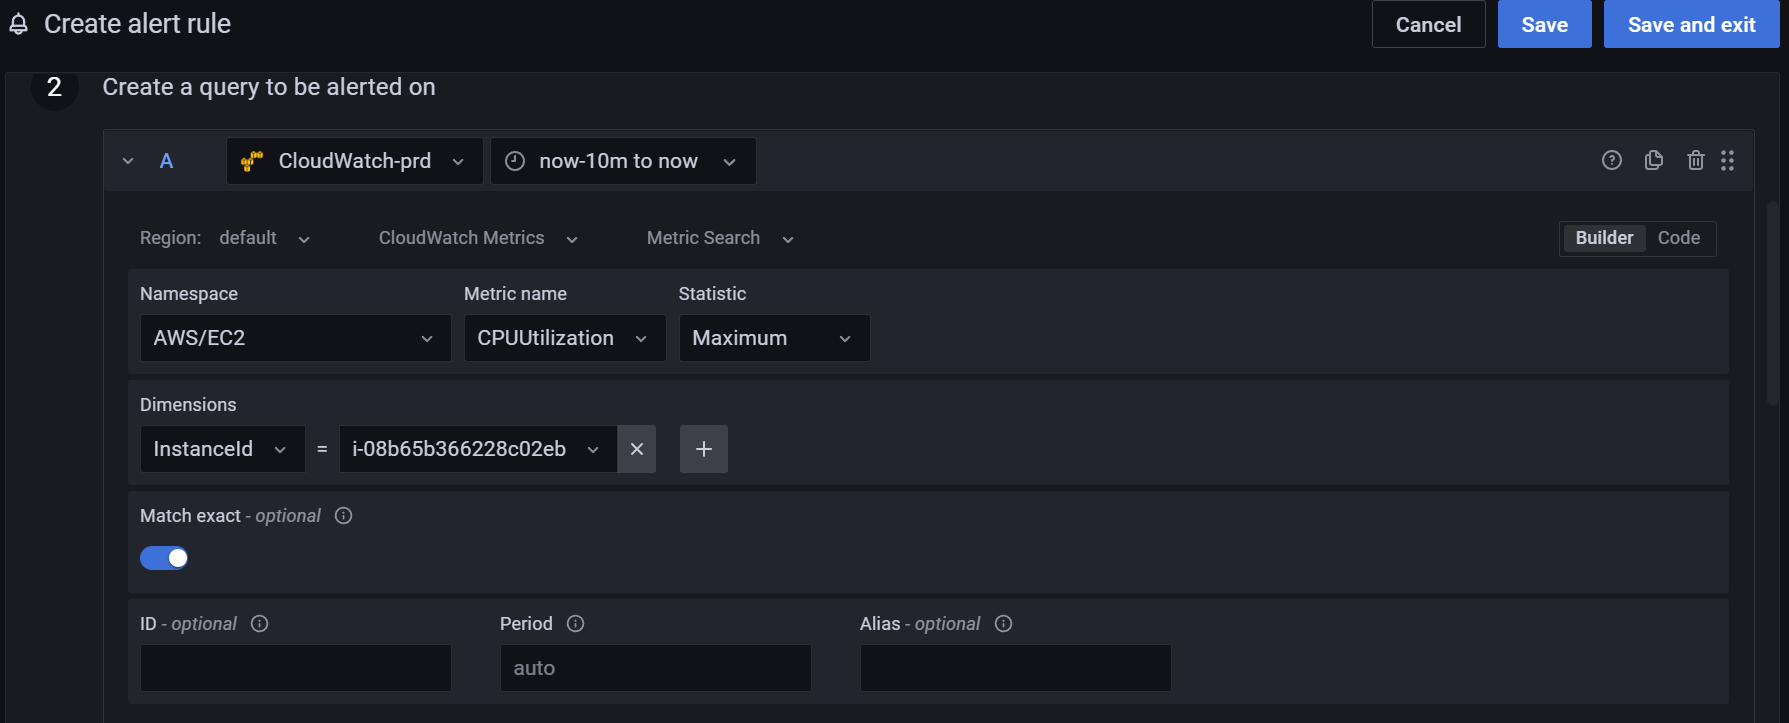
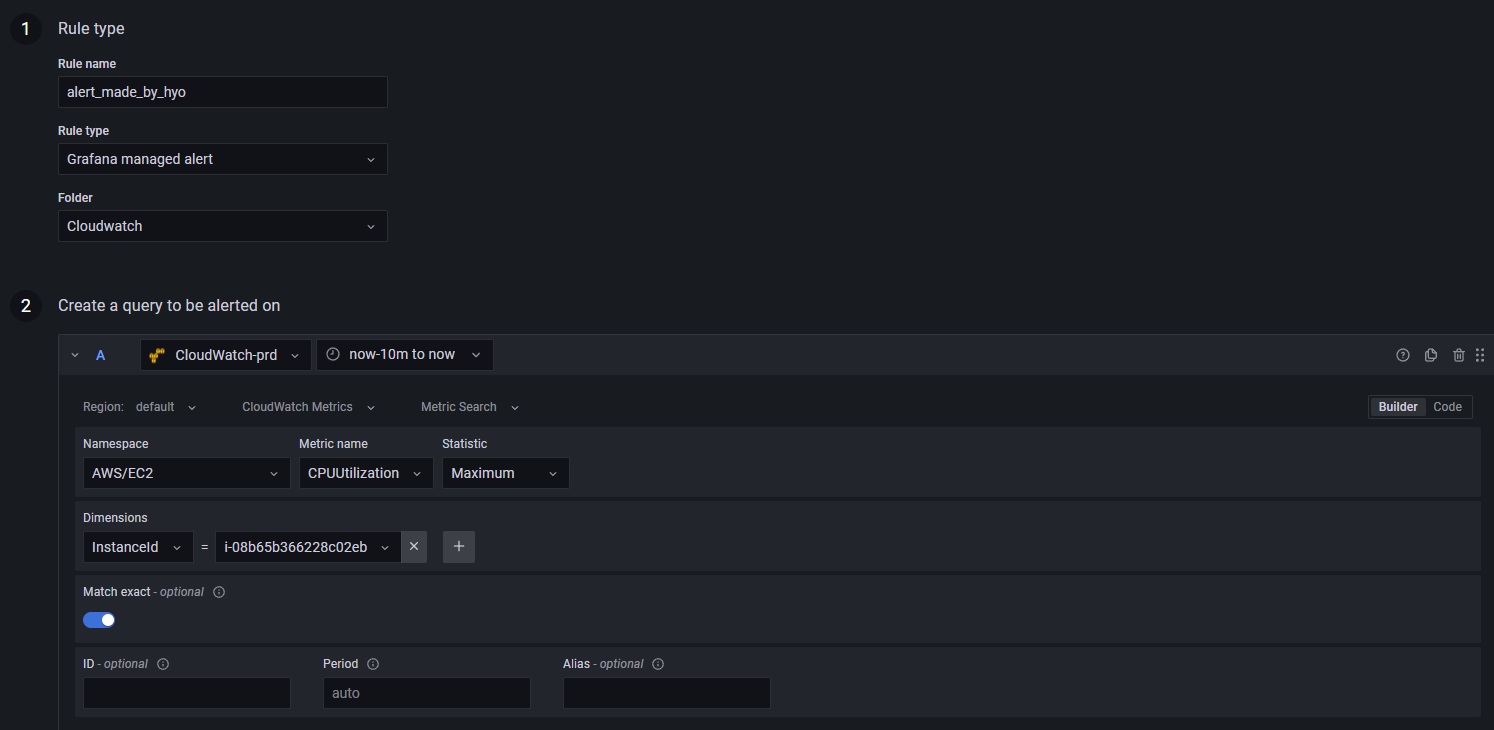
08-2 Grafana Monitoring and Alert Setting Manual

diff --git a/doc/chapter08.md b/doc/chapter08.md
@@ -68,9 +68,9 @@ Contact point type를 선택하면, 그에 따른 설정 값들이 아래에 보
   label Matcher의 경우 label, value, operator의 3가지 부분으로 나뉘어 있다. label은 일치시킬 라벨 이름이며, 정확히 일치해야 한다. value 필드는 label에 해당하는 값이며, operator에 따라 달라진다.  연산자는 label 값에 대해 일치시킬 연산자이며, 사용 가능한 연산자는 다음과 같다.
 
   * = value와 정확히 동일한 label
-  * != value와 일치하지 않는 label    
-  * =~ value 값과 일치하는 label (해당 value을 포함하는 label)
-  * !~ value와 일치하지 않는 label (해당 value를 포함하지 않는 label)
+  * != value와 정확히 일치하지 않는 label    
+  * =~ value 값과 일치하는 label (해당 value을 포함하는 label) LIKE 조건이라고 보면 됨. 
+  * !~ value와 일치하지 않는 label (해당 value를 포함하지 않는 label) NOT LIKE 조건이라고 보면 된다.
 
 
 1. __Silence__
@@ -80,16 +80,21 @@ Contact point type를 선택하면, 그에 따른 설정 값들이 아래에 보
  *  알람 그룹은 alert Admin Instance의 그룹화된 경보를 표시한다. 기본적으로 알림은 통지 정책에서 루트 정책의 label key별로 그룹화된다. 공통 경고를 단일 alert group으로 그룹화하면 중복 경고가 발생하는 것을 방지할 수 있다.
 
 ### 실제로 알람 규칙을 만들고 알람 정책에 연결해보자. ###
+   이 예제에서는 CloudWatch
 
-  
-
-  >![creatge-alertrule1](./img/create-alertrule1.png)
-  위의 variable에서 단계에서 확인해봤던 EC2 CPU 사용량 최대값 Metric 정보를 가지고 알림 규칙을 만들어보자.
-    >![creatge-alertrule2](./img/create-alertrule2.png)
-    A에서 설정한 Metric 정보 중에서 가장 최신 CPU 사용량 최대값이 12를 넘을 경우를  B에서 임계치로 설정하고, 3번에서 이 B의 상태를 1m동안 확인하는데 5분동안 해당 상태가 유지될 경우에 Alert을 보내도록 한다.
-    >![creatge-alertrule3](./img/create-alertrule3.png)
-    privew Alert으로 알림 상태를 확인할 수 있고, Label 입력 시 이를 'DevOps = IOT'로 그룹화하여 관리할 수 있다.
-
-    * 위에서 만든 Alert Rule을 Contact Point에 연결해보자.
-  >![contact_policy](./img/contact-policy.png)
+   > Grafana에서 우측의 종모양 버튼을 클릭하고 Contact Point를 클릭한다.
+   ![contact-point-endpoint](.img/../img/contact-point-endpoint.png)
+   > Contact Point 화면에서 add new Contact Point 버튼을 눌러 새 Contact Point를 생성하는 화면으로 전환한다. 간단하게 Teams로 Alert을 보내주는 Contact Point를 만들어보겠다.
+   ![contact-point-setting](./img/contact-point-setting.png)
+   위와 같이 contact point type과 URL을 입력하여 contact point를 생성해준다. 그리고 다시 화면 우측의 메뉴에서 +버튼을 누르고 Alert rules를 클릭한다.
+   ![alert-rule-endpoint](./img/alert-rule-endpoint.png)
+    Rule 다음과 같이 선택하면 EC2 CPU 사용량 중 특정 instance id의 최대값 Metric 정보를 가지고 알림 규칙을 만들 수 있다. 
+   ![creatge-alertrule1](./img/create-alertrule1.png)
+    A에서 설정한 Metric 정보 중에서 가장 최신 CPU 사용량 최대값이 12를 넘을 경우를  B에서 임계치로 설정한다. 그리고 이 B의 상태를 1분동안 체크해 Pending 상태를 5분동안 유지될 경우에 Alert 생성해  보내도록 한다. 
+  >![creatge-alertrule2](./img/create-alertrule2.png)
+    Label을 입력해 'DevOps = IOT'로 그룹화하여 관리할 수 있도록 하자. 값들을 입력하고 save 버튼을 눌러 Alert rule을 저장한다.
+  >![creatge-alertrule3](./img/create-alertrule3.png)
+  > 이제 Alert Rule을 Contact Point에 연결해보자. 우선 우측의 메뉴에서 종모양 버튼을 클릭하고 Notification Policies를 클릭한다.
+  >![notification-policy-endpoint](./img/notification-policy-endpoint.png)
   >이런식으로 설정을 하면 label이 DevOps = IOT인 항목들이 Alert Rule에 적합할 경우 Telegram으로 Alert을 보내주게 된다.
+    >![contact_policy](./img/contact-policy.png)
